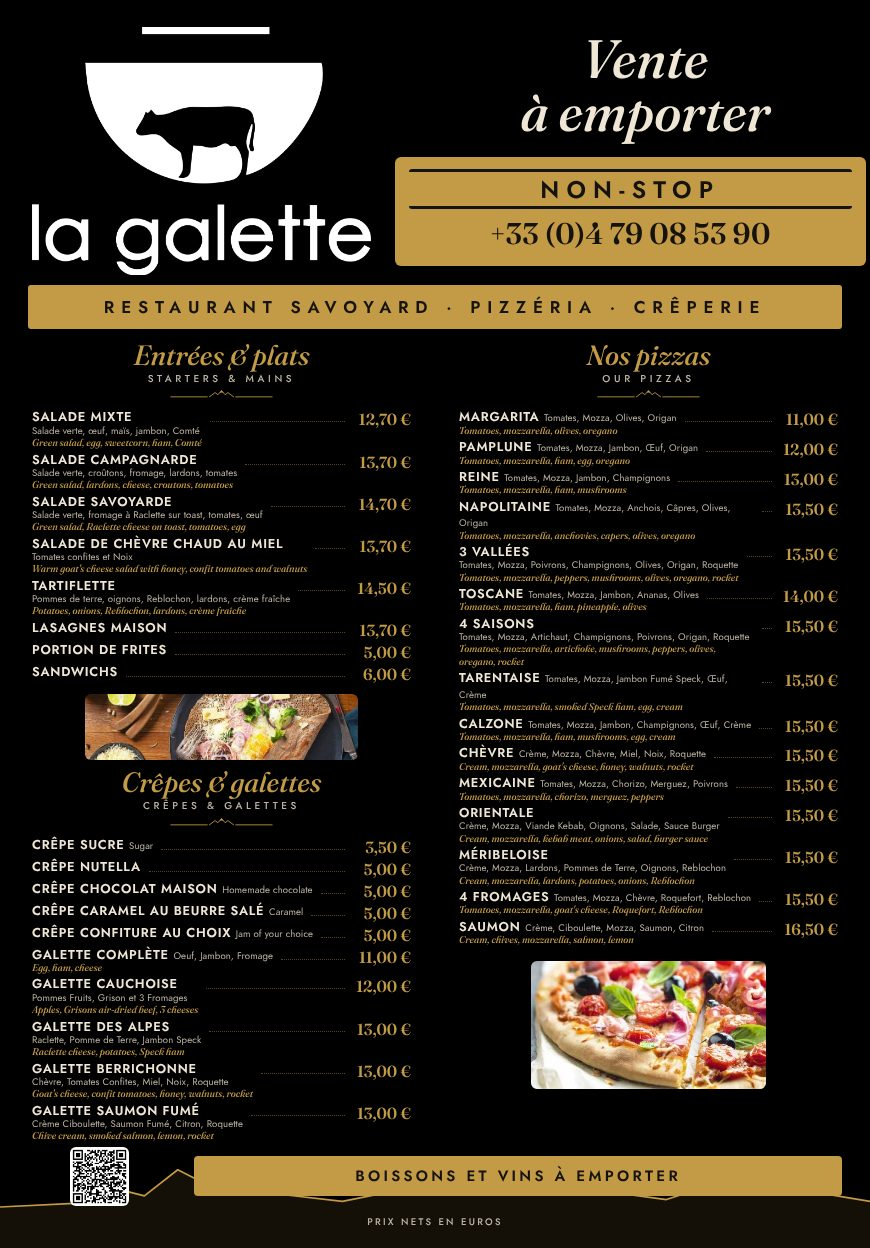
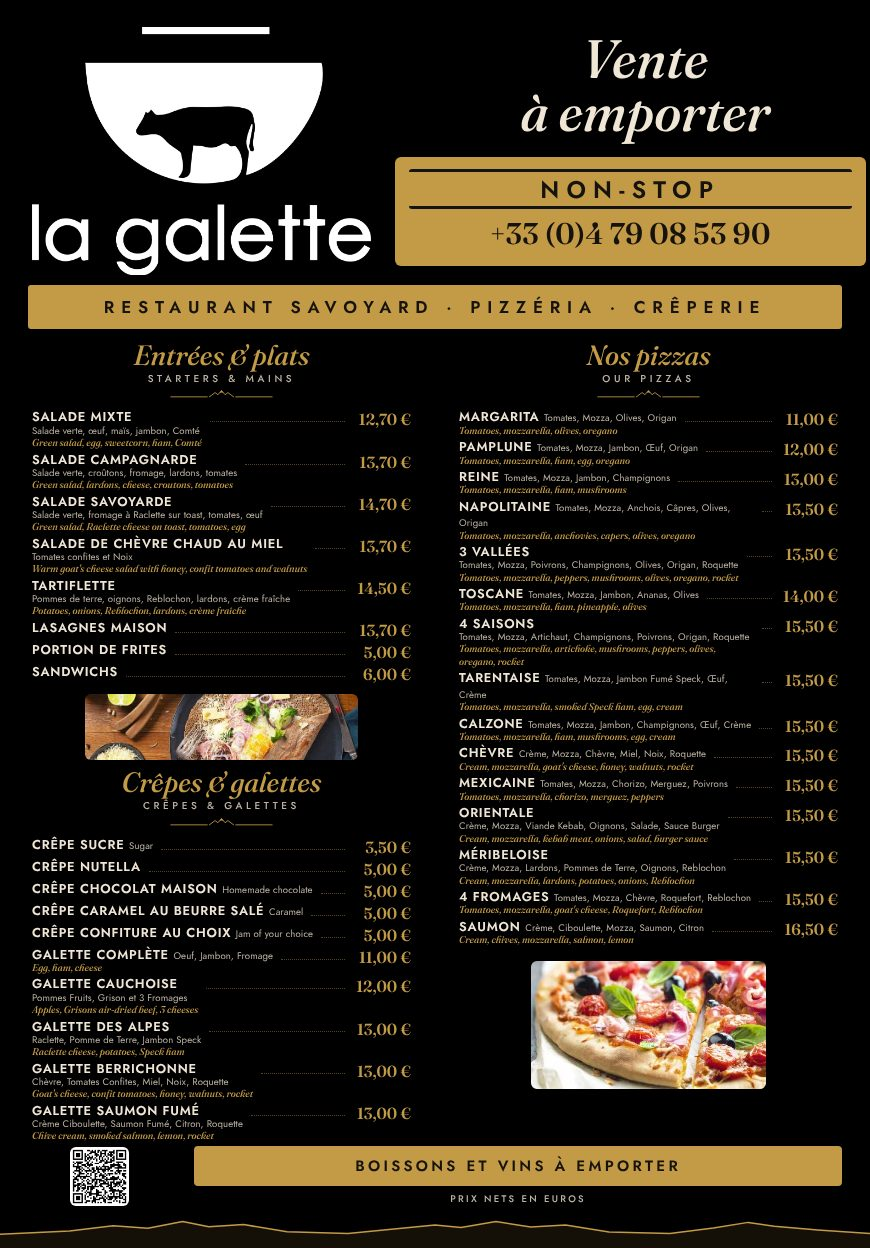
Présentation La Galette : supports extérieurs sans chevauchement en pied de page
Claude-Session: https://claude.ai/code/session_014aNwerFKka7aNuCCrqmi84

Changed region(s): [[0.1552, 0.9062, 1.0, 1.0]]

diff --git a/presentation-galette.html b/presentation-galette.html
@@ -200,7 +200,7 @@ h1{margin:26px auto 0;max-width:15em;font:italic 500 clamp(34px,9.4vw,58px)/1.06
         <div class="sw"><label class="avant" for="p5-avant">Avant</label><label class="apres" for="p5-apres">Après</label></div>
         <div class="shots">
           <a class="shot avant" href="presentation/avant-emporter.jpg"><span class="tag">Avant</span><img src="presentation/avant-emporter.jpg" width="986" height="1414" loading="lazy" decoding="async" alt="Adhésif actuel, vente à emporter"><span class="zoom" aria-hidden="true"><svg class="i" viewBox="0 0 24 24"><circle cx="10.5" cy="10.5" r="6.5"/><path d="M15.5 15.5 20 20M10.5 7.5v6M7.5 10.5h6"/></svg></span></a>
-          <a class="shot apres" href="presentation/apres-emporter.jpg?v=4"><span class="tag">Après</span><img src="presentation/apres-emporter.jpg?v=4" width="870" height="1248" loading="lazy" decoding="async" alt="Nouvel adhésif proposé, vente à emporter"><span class="zoom" aria-hidden="true"><svg class="i" viewBox="0 0 24 24"><circle cx="10.5" cy="10.5" r="6.5"/><path d="M15.5 15.5 20 20M10.5 7.5v6M7.5 10.5h6"/></svg></span></a>
+          <a class="shot apres" href="presentation/apres-emporter.jpg?v=5"><span class="tag">Après</span><img src="presentation/apres-emporter.jpg?v=5" width="870" height="1248" loading="lazy" decoding="async" alt="Nouvel adhésif proposé, vente à emporter"><span class="zoom" aria-hidden="true"><svg class="i" viewBox="0 0 24 24"><circle cx="10.5" cy="10.5" r="6.5"/><path d="M15.5 15.5 20 20M10.5 7.5v6M7.5 10.5h6"/></svg></span></a>
         </div>
       </figure>
 
@@ -211,7 +211,7 @@ h1{margin:26px auto 0;max-width:15em;font:italic 500 clamp(34px,9.4vw,58px)/1.06
         <div class="sw"><label class="avant" for="p6-avant">Avant</label><label class="apres" for="p6-apres">Après</label></div>
         <div class="shots">
           <a class="shot avant" href="presentation/avant-totem.jpg"><span class="tag">Avant</span><img src="presentation/avant-totem.jpg" width="994" height="1408" loading="lazy" decoding="async" alt="Porte-menu actuel du totem"><span class="zoom" aria-hidden="true"><svg class="i" viewBox="0 0 24 24"><circle cx="10.5" cy="10.5" r="6.5"/><path d="M15.5 15.5 20 20M10.5 7.5v6M7.5 10.5h6"/></svg></span></a>
-          <a class="shot apres" href="presentation/apres-totem.jpg?v=5"><span class="tag">Après</span><img src="presentation/apres-totem.jpg?v=5" width="908" height="1286" loading="lazy" decoding="async" alt="Nouveau porte-menu proposé pour le totem"><span class="zoom" aria-hidden="true"><svg class="i" viewBox="0 0 24 24"><circle cx="10.5" cy="10.5" r="6.5"/><path d="M15.5 15.5 20 20M10.5 7.5v6M7.5 10.5h6"/></svg></span></a>
+          <a class="shot apres" href="presentation/apres-totem.jpg?v=6"><span class="tag">Après</span><img src="presentation/apres-totem.jpg?v=6" width="908" height="1286" loading="lazy" decoding="async" alt="Nouveau porte-menu proposé pour le totem"><span class="zoom" aria-hidden="true"><svg class="i" viewBox="0 0 24 24"><circle cx="10.5" cy="10.5" r="6.5"/><path d="M15.5 15.5 20 20M10.5 7.5v6M7.5 10.5h6"/></svg></span></a>
         </div>
       </figure>
 
